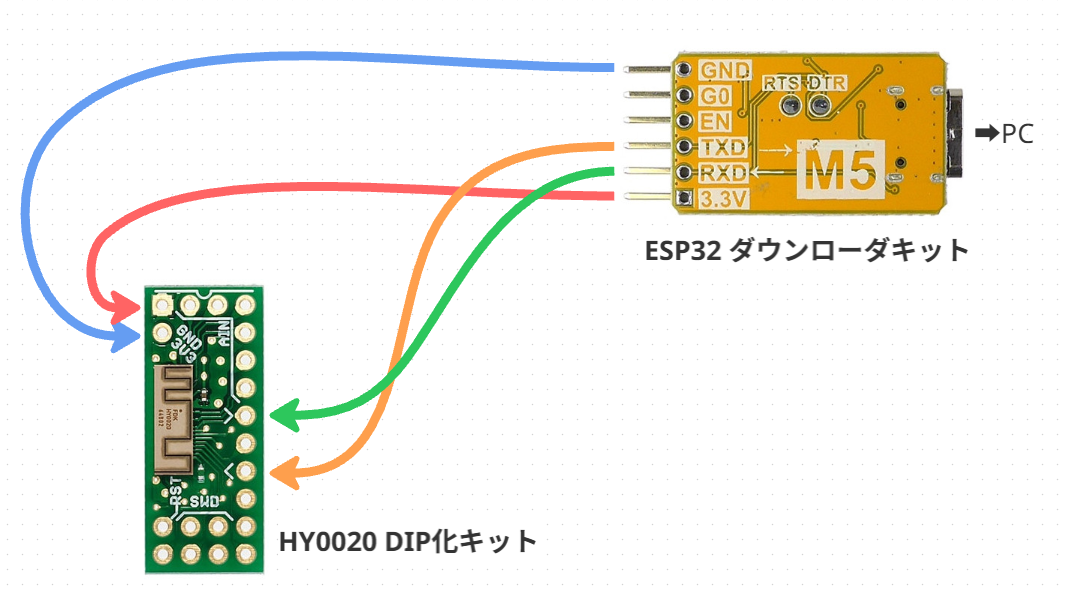
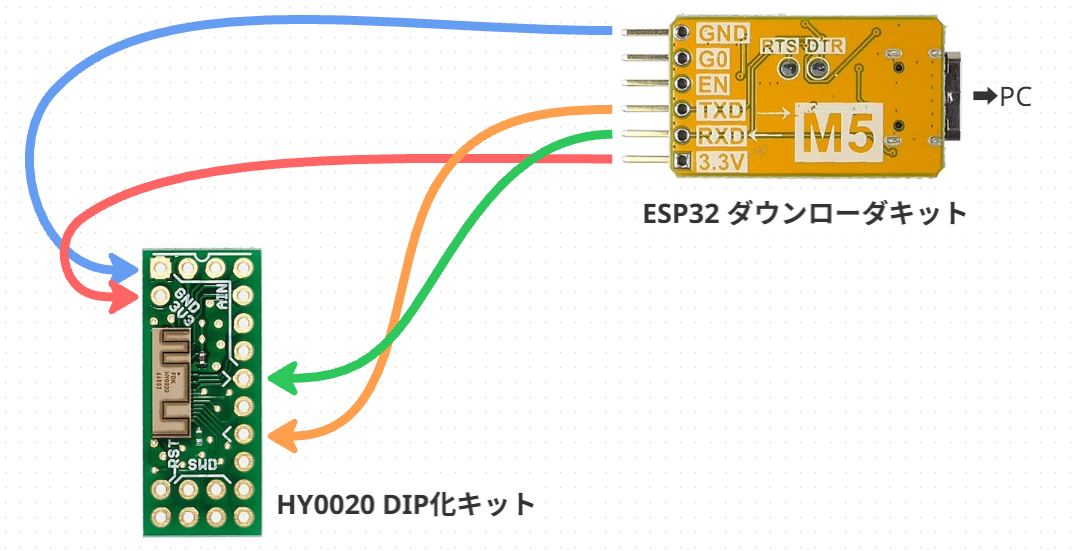
doc update

Changed region(s): [[0.0, 0.0, 0.9561, 0.9873]]

diff --git a/docs/hy0020.html b/docs/hy0020.html
@@ -82,7 +82,7 @@ nrfutil.write = async function(zip_uri) {
 
 //--></script>
 <h2>配線</h2>
-<img src="./img/hy0020_write.png"><br>
+<img src="./img/hy0020_write.png" width="537" height="275"><br>
 <br><br>
 <h2>ファームウェア書き込み</h2>
 <input type="button" value="書き込み" onClick="JavaScript:nrfutil.write('./data/hy0020.ino.zip');"><br>
